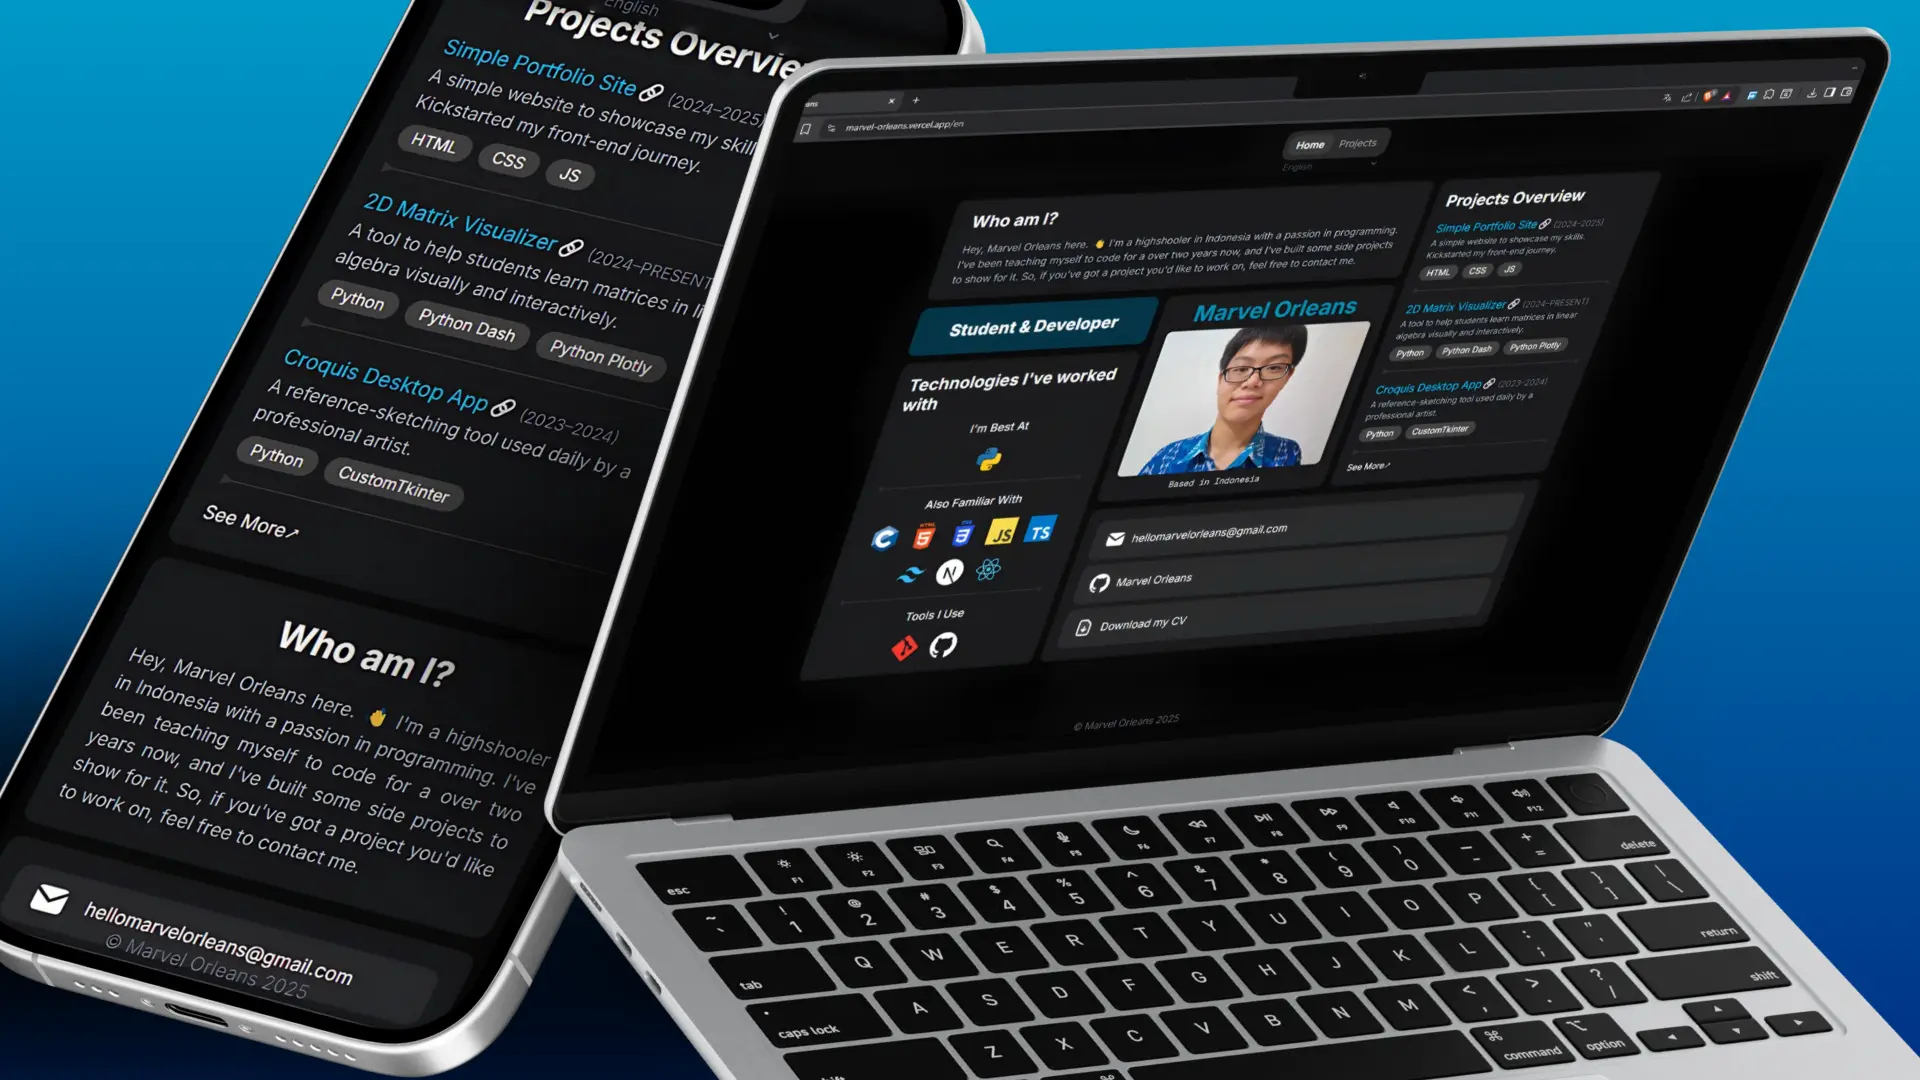
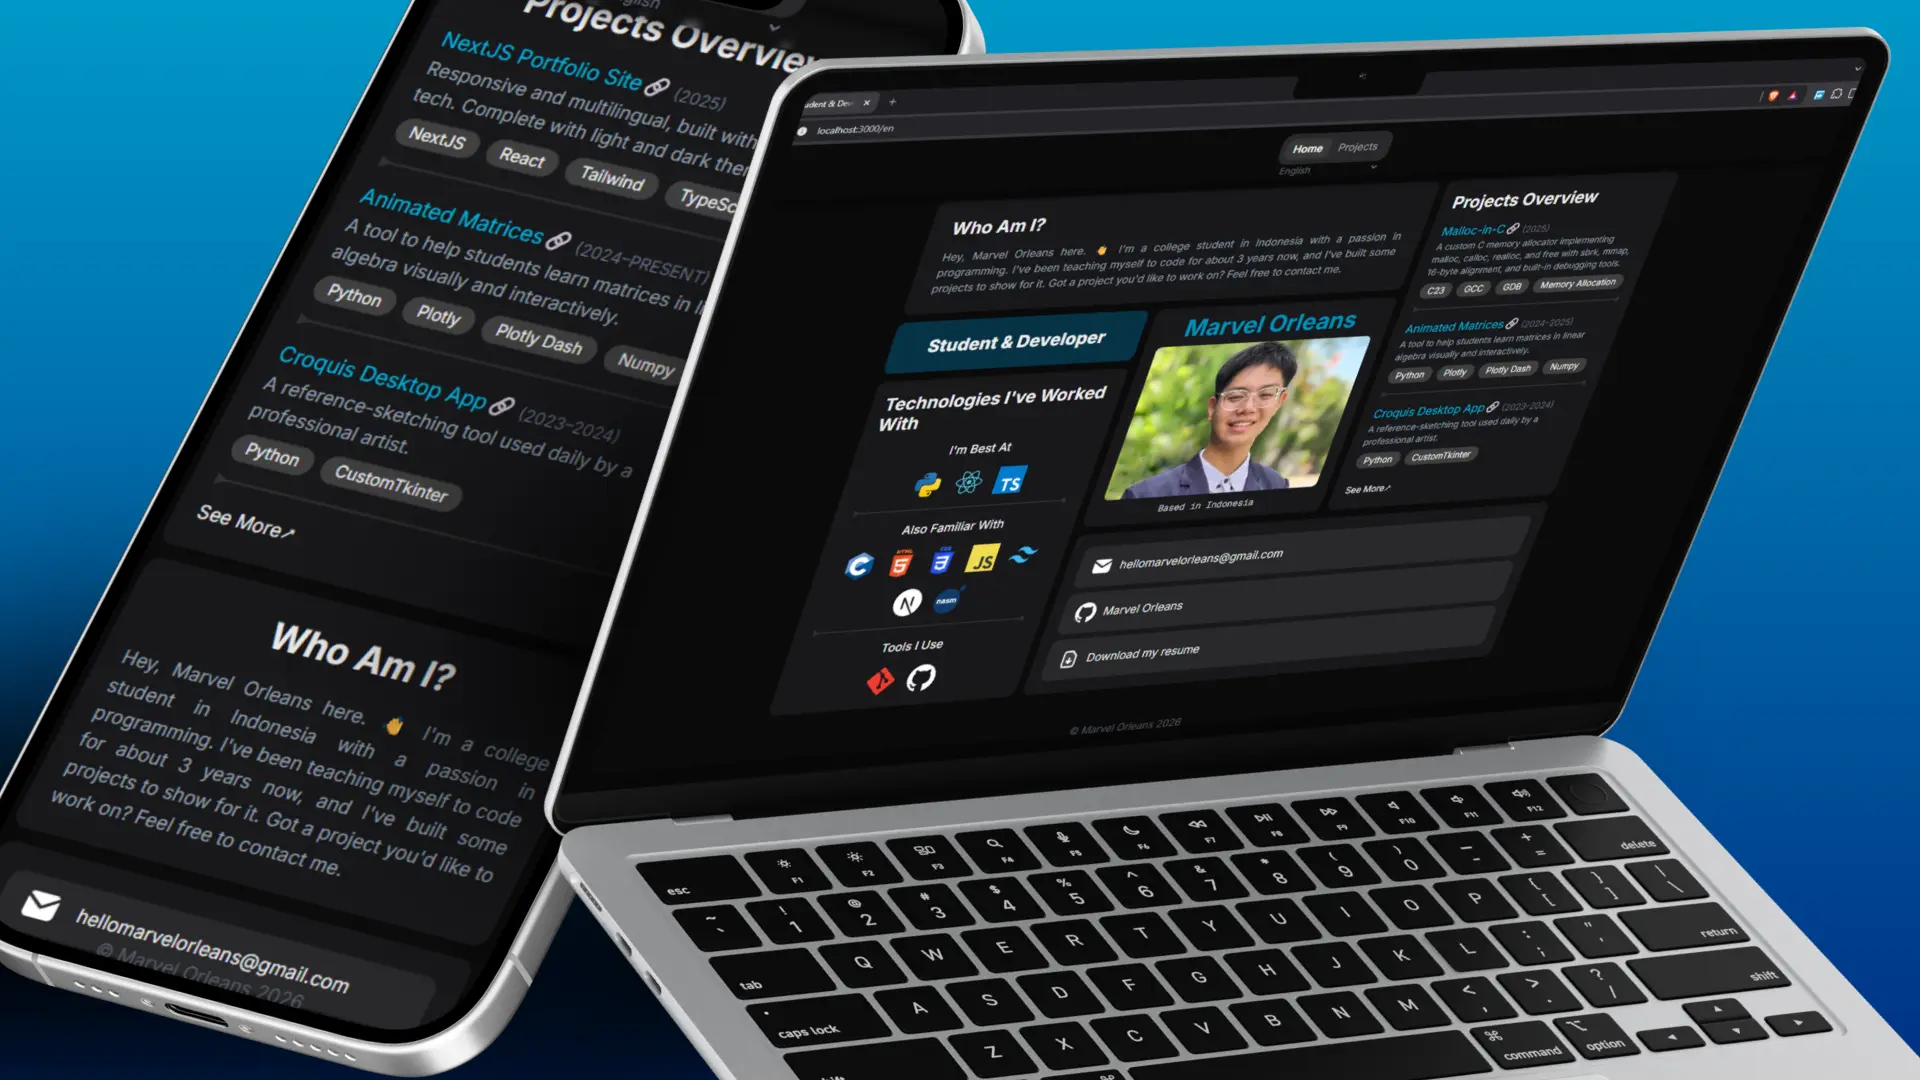
Update copywriting, and add skills and projects

diff --git a/src/app/[locale]/projects/page.tsx b/src/app/[locale]/projects/page.tsx
@@ -18,27 +18,40 @@ type Tab = "personal" | "paid";
 
 export default function Home() {
   const navbarText = useTranslations("navbar");
-  const presentDateText = useTranslations("otherText");
+  // const presentDateText = useTranslations("otherText");
 
   const personalProjects: ProjectDisplayProps[] = useMemo(() => [
     {
-      id: "nextjs-portfolio-site",
-      tags: ["NextJS", "React", "Tailwind CSS", "TypeScript"],
-      gitHubLink: "https://github.com/CupapiOT/nextjs-portfolio-site",
-      year: ["2025"],
+      id: "malloc-in-c",
+      tags: ["C23", "GCC", "GDB", "Memory Management"],
+      gitHubLink: "https://github.com/CupapiOT/malloc-in-c",
+      year: ["2026"],
     },
     {
-      id: "simple-portfolio-site",
-      tags: ["HTML", "CSS", "JavaScript"],
-      gitHubLink: "https://github.com/CupapiOT/CupapiOT.github.io",
-      websiteLink: "https://cupapiot.github.io",
-      year: ["2024", "2025"],
+      id: "mini-paint-tui",
+      tags: ["C99", "GCC", "GDB", "FFmpeg", "Terminal User Interface"],
+      gitHubLink: "https://github.com/CupapiOT/mini-paint-tui",
+      year: ["2026"],
     },
+    {
+      id: "nextjs-portfolio-site",
+      tags: ["NextJS", "React", "Tailwind CSS", "TypeScript"],
+      gitHubLink: "https://github.com/CupapiOT/mini-paint-tui",
+      year: ["2025"],
+    },
+    // NOTE: No longer useful.
+    // {
+    //   id: "simple-portfolio-site",
+    //   tags: ["HTML", "CSS", "JavaScript"],
+    //   gitHubLink: "https://github.com/CupapiOT/CupapiOT.github.io",
+    //   websiteLink: "https://cupapiot.github.io",
+    //   year: ["2024", "2025"],
+    // },
     {
       id: "animated-matrices",
       tags: ["Python", "Plotly for Python", "Plotly Dash", "Numpy"],
       gitHubLink: "https://github.com/CupapiOT/animated-matrices",
-      year: ["2024", presentDateText("presentDate")],
+      year: ["2024", "2025"],
     },
     {
       id: "croquis-image-references",
@@ -46,16 +59,19 @@ export default function Home() {
       gitHubLink: "https://github.com/CupapiOT/croquis-image-references",
       year: ["2023", "2024"],
     },
-  ], [presentDateText]);
-
-  const paidProjects: ProjectDisplayProps[] = useMemo(() => [
-    {
-      id: "sea-portfolio-site",
-      tags: ["NextJS", "React", "Tailwind CSS", "TypeScript"],
-      year: ["2025"],
-      websiteLink: "https://seaportfolio.vercel.app"
-    },
   ], []);
+
+  const paidProjects: ProjectDisplayProps[] = useMemo(
+    () => [
+      {
+        id: "sea-portfolio-site",
+        tags: ["NextJS", "React", "Tailwind CSS", "TypeScript"],
+        year: ["2025"],
+        websiteLink: "https://seaportfolio.vercel.app",
+      },
+    ],
+    [],
+  );
 
   const projectsText = useTranslations("projectsPage");
   const [selectedTab, setTab] = useState<Tab>("personal");
@@ -116,7 +132,6 @@ export default function Home() {
             onClick={() => setSelectedTab("paid")}
           >
             {projectsText("commercialTabButton")}
-
           </button>
         </div>
 

diff --git a/src/app/[locale]/homepage-sections/Projects.tsx b/src/app/[locale]/homepage-sections/Projects.tsx
@@ -58,16 +58,7 @@ export default function Projects({
   pageLink,
 }: ProjectsSectionProps) {
   const projectsText = useTranslations("homePage.projects");
-  const presentDateText = useTranslations("otherText");
-  const nextjsPortfolioSiteText = useTranslations(
-    "homePage.projects.nextjsPortfolioSite",
-  );
-  const animatedMatricesText = useTranslations(
-    "homePage.projects.animatedMatrices",
-  );
-  const croquisImageReferencesText = useTranslations(
-    "homePage.projects.croquisImageReferences",
-  );
+  // const presentDateText = useTranslations("otherText");
 
   return (
     <Section
@@ -76,39 +67,31 @@ export default function Projects({
       fadeInDirection={fadeInDirection}
     >
       <h2 className="section-header">{projectsText("title")}</h2>
-      <ul className="flex flex-col gap-y-2 mb-2 self-center w-full sm:max-w-9/10 lg:max-w-full">
+      <ul className="flex flex-col gap-y-2 mb-10 lg:mb-2 self-center w-full sm:max-w-9/10 lg:max-w-full">
         {/* There should only ever be three projects at a time here. */}
         <ProjectItem
-          title={nextjsPortfolioSiteText("title")}
-          desc={nextjsPortfolioSiteText("desc")}
+          title={projectsText("mallocInC.title")}
+          desc={projectsText("mallocInC.desc")}
           link="./projects"
           year={["2025"]}
-          tags={["NextJS", "React", "Tailwind", "TypeScript"]}
+          tags={["C23", "GCC", "GDB", "Memory Allocation"]}
         />
         <HorizontalLine width="full" className="my-2" />
         <ProjectItem
-          title={animatedMatricesText("title")}
-          desc={animatedMatricesText("desc")}
+          title={projectsText("animatedMatrices.title")}
+          desc={projectsText("animatedMatrices.desc")}
           link="./projects"
-          year={["2024", presentDateText("presentDate")]}
+          year={["2024", "2025"]}
           tags={["Python", "Plotly", "Plotly Dash", "Numpy"]}
         />
         <HorizontalLine width="full" className="my-2" />
         <ProjectItem
-          title={croquisImageReferencesText("title")}
-          desc={croquisImageReferencesText("desc")}
+          title={projectsText("croquisImageReferences.title")}
+          desc={projectsText("croquisImageReferences.desc")}
           link="./projects"
           tags={["Python", "CustomTkinter"]}
           year={["2023", "2024"]}
         />
-        {pageLink !== undefined ? (
-          <HorizontalLine
-            width="full"
-            className="mb-8 my-2 lg:mb-6 min-[114rem]:mb-[-5rem]"
-          />
-        ) : (
-          ""
-        )}
         {pageLink !== undefined ? (
           <a
             className="absolute bottom-5 hover:underline hover:text-cyan-500 hover:text-[1rem] translate duration-300"

diff --git a/src/app/[locale]/homepage-sections/Skills.tsx b/src/app/[locale]/homepage-sections/Skills.tsx
@@ -42,10 +42,18 @@ export default function Skills({
     <Section id={id} className={className} fadeInDirection={fadeInDirection}>
       <h2 className="section-header mb-6">{headerText("title")}</h2>
       <h3 className={h3Classes}>{headerText("best")}</h3>
-      <div className="flex justify-center">
+      <div className={skillsIconContainerClasses}>
         <SkillsIcon
           src="/src/skills/icon-python.svg"
           alt={skillsAlts("python")}
+        />
+        <SkillsIcon
+          src="/src/skills/icon-react.svg"
+          alt={skillsAlts("reactjs")}
+        />
+        <SkillsIcon
+          src="/src/skills/icon-typescript.svg"
+          alt={skillsAlts("typescript")}
         />
       </div>
       <HorizontalLine className="my-4" />
@@ -59,17 +67,16 @@ export default function Skills({
           alt={skillsAlts("javascript")}
         />
         <SkillsIcon
-          src="/src/skills/icon-typescript.svg"
-          alt={skillsAlts("typescript")}
+          src="/src/skills/icon-tailwindcss.svg"
+          alt={skillsAlts("tailwindcss")}
         />
-        <SkillsIcon src="/src/skills/icon-tailwindcss.svg" alt="Tailwind CSS" />
         <ThemeSensitiveImage
           className="aspect-square w-[3.5em] lg:w-[3em]"
           lightImage="/src/skills/icon-nextjs-black.svg"
           darkImage="/src/skills/icon-nextjs-white.svg"
           alt={skillsAlts("nextjs")}
         />
-        <SkillsIcon src="/src/skills/icon-react.svg" alt="React Framework" />
+        <SkillsIcon src="/src/skills/icon-nasm.svg" alt={skillsAlts("nasm")} />
       </div>
       <HorizontalLine className="my-4" />
       <h3 className={h3Classes}>{headerText("tools")}</h3>

diff --git a/src/components/Navbar.tsx b/src/components/Navbar.tsx
@@ -1,5 +1,6 @@
 "use client";
 import clsx from "clsx";
+import Link from "next/link";
 import React, { useState } from "react";
 
 interface NavbarProps {
@@ -16,7 +17,7 @@ export default function Navbar({ links, currLinkIndex }: NavbarProps) {
       <>
         {links.map(([link, name]) => (
           <li className="flex justify-center" key={link}>
-            <a
+            <Link
               className={clsx(
                 "px-3 py-1 rounded-xl text-center text-(--navbar-link) transition duration-300",
                 whichLink === link
@@ -29,7 +30,7 @@ export default function Navbar({ links, currLinkIndex }: NavbarProps) {
               }}
             >
               {name}
-            </a>
+            </Link>
           </li>
         ))}
       </>

diff --git a/src/app/[locale]/page.tsx b/src/app/[locale]/page.tsx
@@ -20,7 +20,7 @@ export default function Home() {
         ]}
         currLinkIndex={0}
       />
-      <main className="overflow-hidden pt-[6.5rem] pb-10 max-w-[1152px] w-full h-min flex flex-col items-center gap-y-3 lg:text-sm lg:max-w-95/100 lg:grid lg:grid-cols-3 grid-rows-[h-min_h-min_h-min] lg:aspect-auto justify-items-center lg:gap-3 xl:max-w-4/5 2xl:max-w-3/5">
+      <main className="overflow-hidden pt-[6rem] pb-10 max-w-[1152px] w-full h-min flex flex-col items-center gap-y-3 lg:text-sm lg:max-w-95/100 lg:grid lg:grid-cols-3 grid-rows-[h-min_h-min_h-min] lg:aspect-auto justify-items-center lg:gap-3 xl:max-w-4/5 2xl:max-w-3/5">
         <Hero
           className="lg:row-start-2 lg:col-start-2 lg:!duration-200"
           fadeInDirection="NONE"

diff --git a/src/app/[locale]/homepage-sections/Hero.tsx b/src/app/[locale]/homepage-sections/Hero.tsx
@@ -17,11 +17,11 @@ export default function Hero({ id, className, fadeInDirection }: SectionProps) {
         Marvel Orleans
       </h1>
       <Image
-        className="h-min aspect-video object-cover rounded-lg lg:h-full"
+        className="h-min aspect-video object-cover object-top rounded-lg lg:h-full"
         src="/src/profile-photo.webp"
         alt={heroText("profileImgAlt")}
-        width={9999}
-        height={9999}
+        width={1200}
+        height={1200}
       />
       <p className="text-sm font-mono text-center text-gray-700 dark:text-gray-300">
         {heroText("location")}
